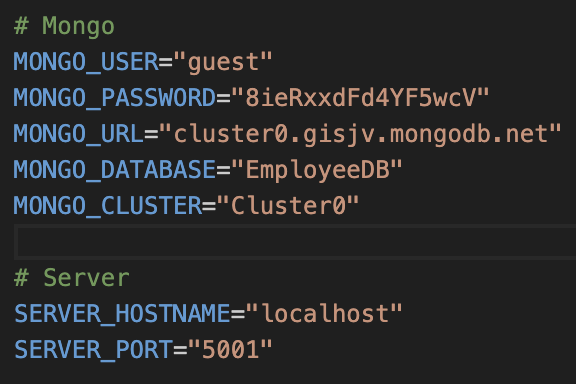
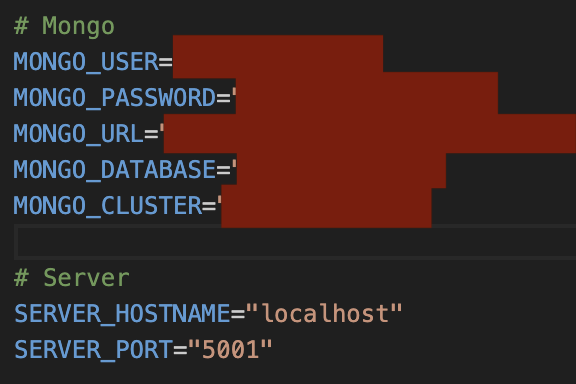
updated documentation

Changed region(s): [[0.2812, 0.0938, 1.0, 0.5938]]

diff --git a/README.md b/README.md
@@ -1,0 +1,34 @@
+# FullStackAPI
+
+## Overview
+
+Welcome to my Full-Stack API project which interfaces an Employee Database! This API communicates with MongoDB to store employee names and relevant skills, uses TypeScript with Express to set up routes (GET, GET-all, POST, PATCH, DELETE, and POST-query), and uses TypeScript with React to create a front-end component which returns a GET route given an employee ID. Below are some steps on how to get started with using this API!
+
+## Directions
+
+1. Once you have cloned this repository, enter the main working directory and install required dependencies by typing `npm install` into a terminal opened within this directory.
+2. Create a `.env` file in the working directory and enter the following information, filling in your MongoDB credentials where necessary:
+
+<p align="center">
+  <img src="./images/envMain.png" alt="Screenshot showing how the .env file in the working directory should be set up."/>
+</p>
+
+3. Now, enter the frontend directory and install required dependencies by typing `npm install` into a terminal opened within this directory.
+
+4. Create a `.env` file in the frontend directory and enter the following information *exactly*:
+
+<p align="center">
+  <img src="./images/envFrontEnd.png" alt="Screenshot showing how the .env file in the frontend directory should be set up."/>
+</p>
+
+5. Return to the working directory and ensure nodemon is installed by typing `npm install -g nodemon` in a terminal opened within the working directory.
+
+6. Type `nodemon` in the terminal to run the API router.
+
+7. Enter the frontend directory again and type `npm start` in a terminal opened within this directory to start a local React server. This should grant you access to a page similar to this one:
+
+<p align="center">
+  <img src="./images/webpage.png" alt="Screenshot showing what the front end looks like; specifically, what the webpage generated by React looks like."/>
+</p>
+
+8. Using MongoDB or Postman Query routes, determine a valid employee ID in the database and enter it into the search bar on the front end. Hit enter and view the results of your GET route!
